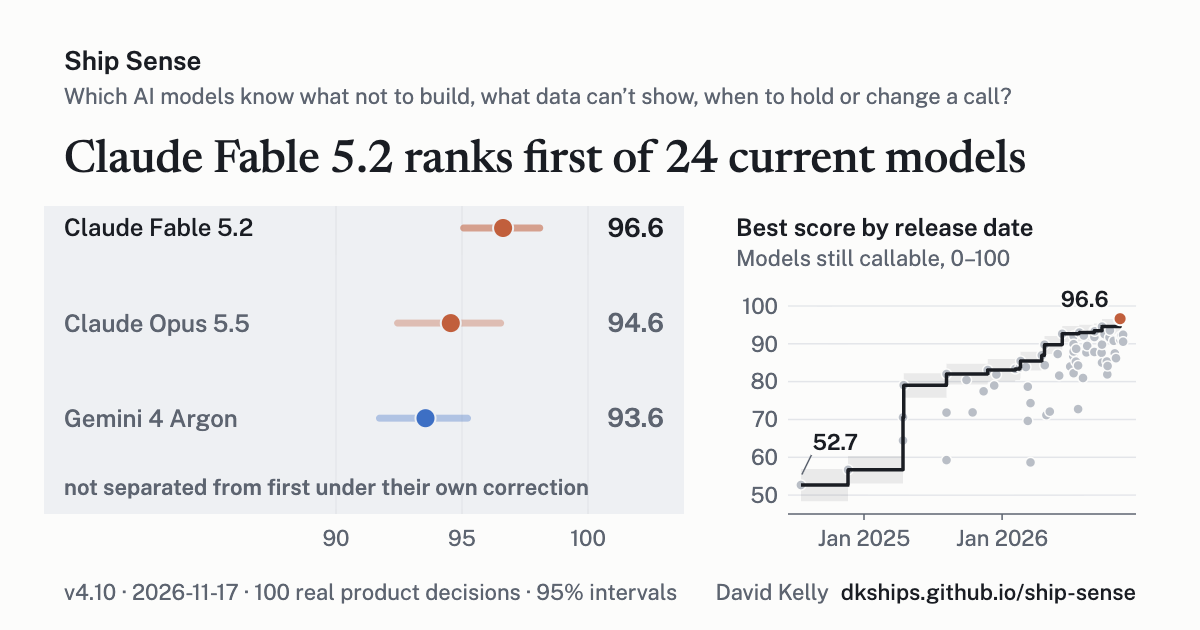
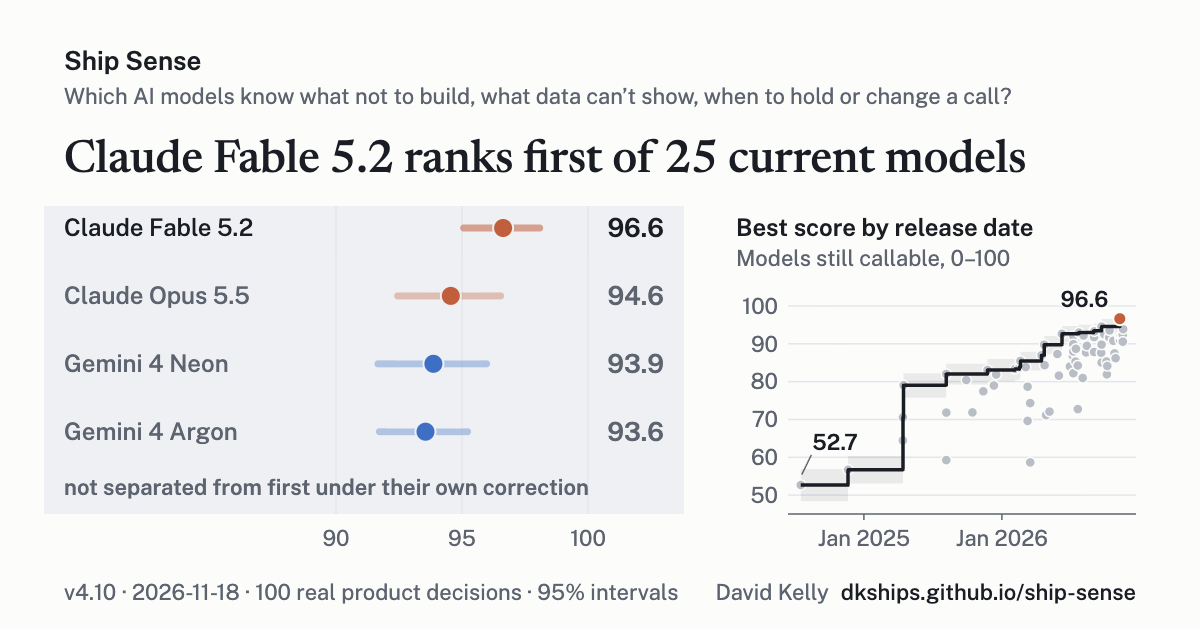
Sync the Ship Sense board: Gemini 4 Neon joins
Ship Sense added Gemini 4 Neon on 2026-11-18 as a 25th current model
(public commit 147f0e3). Snapshot, teaser and share image regenerated
by the sync script; the image is byte-identical to the board's card.

diff --git a/src/data/ship-sense-snapshot.ts b/src/data/ship-sense-snapshot.ts
@@ -12,7 +12,7 @@ export const SHIP_SENSE_RUN: ShipSenseRunMeta = {
   "runId": "2026-11-13-v4.10",
   "runDate": "2026-11-13",
   "bankItems": 100,
-  "modelCount": 71,
+  "modelCount": 72,
   "replacedCount": 1,
   "replacedBy": {
     "Mistral Medium 3.5": "Mistral Large 4"
@@ -36,8 +36,8 @@ export const SHIP_SENSE_RUN: ShipSenseRunMeta = {
     }
   ],
   "decisiveRule": "bh",
-  "decisivePairs": 1914,
-  "totalPairs": 2485,
+  "decisivePairs": 1969,
+  "totalPairs": 2556,
   "scoringDates": [
     {
       "date": "2026-11-13",
@@ -124,6 +124,12 @@ export const SHIP_SENSE_RUN: ShipSenseRunMeta = {
         "GPT-6.2 Astra",
         "GPT-6.2 Sol"
       ]
+    },
+    {
+      "date": "2026-11-18",
+      "labels": [
+        "Gemini 4 Neon"
+      ]
     }
   ]
 };
@@ -136,7 +142,7 @@ export const SHIP_SENSE_LINEUP: ShipSenseModelRow[] = [
     "pos": 1,
     "rankLo": 1,
     "rankHi": 1,
-    "pFirst": 0.9889,
+    "pFirst": 0.983,
     "testedOn": "v4.10",
     "score": 96.6,
     "lo": 95.1,
@@ -153,8 +159,8 @@ export const SHIP_SENSE_LINEUP: ShipSenseModelRow[] = [
     "provider": "anthropic",
     "pos": 2,
     "rankLo": 1,
-    "rankHi": 11,
-    "pFirst": 0.0101,
+    "rankHi": 12,
+    "pFirst": 0.0095,
     "testedOn": "v4.10",
     "score": 94.6,
     "lo": 92.4,
@@ -166,13 +172,31 @@ export const SHIP_SENSE_LINEUP: ShipSenseModelRow[] = [
     "priceOut": 20
   },
   {
-    "name": "gemini-4-argon",
-    "label": "Gemini 4 Argon",
+    "name": "gemini-4-neon",
+    "label": "Gemini 4 Neon",
     "provider": "google",
     "pos": 3,
     "rankLo": 1,
-    "rankHi": 14,
-    "pFirst": 0.0009,
+    "rankHi": 15,
+    "pFirst": 0.0066,
+    "testedOn": "v4.10",
+    "score": 93.9,
+    "lo": 91.7,
+    "hi": 96,
+    "restraint": 0.96,
+    "honesty": 0.92,
+    "conviction": 0.93,
+    "priceIn": 3,
+    "priceOut": 15
+  },
+  {
+    "name": "gemini-4-argon",
+    "label": "Gemini 4 Argon",
+    "provider": "google",
+    "pos": 4,
+    "rankLo": 1,
+    "rankHi": 15,
+    "pFirst": 0.0007,
     "testedOn": "v4.10",
     "score": 93.6,
     "lo": 91.7,
@@ -190,9 +214,9 @@ export const SHIP_SENSE_LINEUP: ShipSenseModelRow[] = [
     "name": "gpt-6.2-astra",
     "label": "GPT-6.2 Astra",
     "provider": "openai",
-    "pos": 4,
+    "pos": 5,
     "rankLo": 2,
-    "rankHi": 14,
+    "rankHi": 15,
     "pFirst": 0,
     "testedOn": "v4.10",
     "score": 92.4,
@@ -208,9 +232,9 @@ export const SHIP_SENSE_LINEUP: ShipSenseModelRow[] = [
     "name": "claude-sonnet-5-5",
     "label": "Claude Sonnet 5.5",
     "provider": "anthropic",
-    "pos": 5,
+    "pos": 6,
     "rankLo": 2,
-    "rankHi": 14,
+    "rankHi": 15,
     "pFirst": 0,
     "testedOn": "v4.10",
     "score": 92.4,
@@ -226,9 +250,9 @@ export const SHIP_SENSE_LINEUP: ShipSenseModelRow[] = [
     "name": "gemini-4-hydrogen",
     "label": "Gemini 4 Hydrogen",
     "provider": "google",
-    "pos": 6,
+    "pos": 7,
     "rankLo": 2,
-    "rankHi": 14,
+    "rankHi": 15,
     "pFirst": 0,
     "testedOn": "v4.10",
     "score": 92.1,
@@ -244,9 +268,9 @@ export const SHIP_SENSE_LINEUP: ShipSenseModelRow[] = [
     "name": "muse-ember-1.0",
     "label": "Muse Ember 1.0",
     "provider": "meta",
-    "pos": 7,
+    "pos": 8,
     "rankLo": 2,
-    "rankHi": 15,
+    "rankHi": 16,
     "pFirst": 0,
     "testedOn": "v4.10",
     "score": 91.8,
@@ -262,9 +286,9 @@ export const SHIP_SENSE_LINEUP: ShipSenseModelRow[] = [
     "name": "muse-spark-1.3",
     "label": "Muse Spark 1.3",
     "provider": "meta",
-    "pos": 8,
+    "pos": 9,
     "rankLo": 2,
-    "rankHi": 14,
+    "rankHi": 15,
     "pFirst": 0,
     "testedOn": "v4.10",
     "score": 91.8,
@@ -280,9 +304,9 @@ export const SHIP_SENSE_LINEUP: ShipSenseModelRow[] = [
     "name": "muse-wonder-1.0",
     "label": "Muse Wonder 1.0",
     "provider": "meta",
-    "pos": 9,
+    "pos": 10,
     "rankLo": 2,
-    "rankHi": 16,
+    "rankHi": 17,
     "pFirst": 0.0001,
     "testedOn": "v4.10",
     "score": 91.7,
@@ -298,9 +322,9 @@ export const SHIP_SENSE_LINEUP: ShipSenseModelRow[] = [
     "name": "qwen4-max",
     "label": "Qwen 4 Max",
     "provider": "qwen",
-    "pos": 10,
+    "pos": 11,
     "rankLo": 2,
-    "rankHi": 15,
+    "rankHi": 16,
     "pFirst": 0,
     "testedOn": "v4.10",
     "score": 91.5,
@@ -316,9 +340,9 @@ export const SHIP_SENSE_LINEUP: ShipSenseModelRow[] = [
     "name": "gemini-4-carbon",
     "label": "Gemini 4 Carbon",
     "provider": "google",
-    "pos": 11,
+    "pos": 12,
     "rankLo": 2,
-    "rankHi": 17,
+    "rankHi": 18,
     "pFirst": 0,
     "testedOn": "v4.10",
     "score": 91,
@@ -337,9 +361,9 @@ export const SHIP_SENSE_LINEUP: ShipSenseModelRow[] = [
     "name": "kimi-k3.1-pro",
     "label": "Kimi K3.1 Pro",
     "provider": "moonshot",
-    "pos": 12,
+    "pos": 13,
     "rankLo": 3,
-    "rankHi": 15,
+    "rankHi": 16,
     "pFirst": 0,
     "testedOn": "v4.10",
     "score": 90.8,
@@ -355,9 +379,9 @@ export const SHIP_SENSE_LINEUP: ShipSenseModelRow[] = [
     "name": "gpt-6.2-sol",
     "label": "GPT-6.2 Sol",
     "provider": "openai",
-    "pos": 13,
+    "pos": 14,
     "rankLo": 3,
-    "rankHi": 17,
+    "rankHi": 18,
     "pFirst": 0,
     "testedOn": "v4.10",
     "score": 90.6,
@@ -373,9 +397,9 @@ export const SHIP_SENSE_LINEUP: ShipSenseModelRow[] = [
     "name": "glm-5.3",
     "label": "GLM-5.3",
     "provider": "zai",
-    "pos": 14,
+    "pos": 15,
     "rankLo": 3,
-    "rankHi": 20,
+    "rankHi": 21,
     "pFirst": 0,
     "testedOn": "v4.10",
     "score": 89.5,
@@ -391,9 +415,9 @@ export const SHIP_SENSE_LINEUP: ShipSenseModelRow[] = [
     "name": "grok-4.7",
     "label": "Grok 4.7",
     "provider": "xai",
-    "pos": 15,
-    "rankLo": 9,
-    "rankHi": 22,
+    "pos": 16,
+    "rankLo": 10,
+    "rankHi": 23,
     "pFirst": 0,
     "testedOn": "v4.10",
     "score": 87.6,
@@ -409,9 +433,9 @@ export const SHIP_SENSE_LINEUP: ShipSenseModelRow[] = [
     "name": "gpt-6.1-terra",
     "label": "GPT-6.1 Terra",
     "provider": "openai",
-    "pos": 16,
-    "rankLo": 10,
-    "rankHi": 22,
+    "pos": 17,
+    "rankLo": 11,
+    "rankHi": 23,
     "pFirst": 0,
     "testedOn": "v4.10",
     "score": 87.5,
@@ -427,9 +451,9 @@ export const SHIP_SENSE_LINEUP: ShipSenseModelRow[] = [
     "name": "mistral-large-4-1029",
     "label": "Mistral Large 4 (Oct 29)",
     "provider": "mistral",
-    "pos": 17,
-    "rankLo": 12,
-    "rankHi": 22,
+    "pos": 18,
+    "rankLo": 13,
+    "rankHi": 23,
     "pFirst": 0,
     "testedOn": "v4.10",
     "score": 86.2,
@@ -445,9 +469,9 @@ export const SHIP_SENSE_LINEUP: ShipSenseModelRow[] = [
     "name": "beam-501b-a23b",
     "label": "Beam 1.0",
     "provider": "reflection",
-    "pos": 18,
-    "rankLo": 15,
-    "rankHi": 23,
+    "pos": 19,
+    "rankLo": 16,
+    "rankHi": 24,
     "pFirst": 0,
     "testedOn": "v4.10",
     "score": 85.3,
@@ -463,9 +487,9 @@ export const SHIP_SENSE_LINEUP: ShipSenseModelRow[] = [
     "name": "inkling",
     "label": "Inkling",
     "provider": "thinkingmachines",
-    "pos": 19,
-    "rankLo": 14,
-    "rankHi": 23,
+    "pos": 20,
+    "rankLo": 15,
+    "rankHi": 24,
     "pFirst": 0,
     "testedOn": "v4.10",
     "score": 85.3,
@@ -481,9 +505,9 @@ export const SHIP_SENSE_LINEUP: ShipSenseModelRow[] = [
     "name": "gpt-6-luna",
     "label": "GPT-6 Luna",
     "provider": "openai",
-    "pos": 20,
-    "rankLo": 14,
-    "rankHi": 23,
+    "pos": 21,
+    "rankLo": 15,
+    "rankHi": 24,
     "pFirst": 0,
     "testedOn": "v4.10",
     "score": 85,
@@ -499,9 +523,9 @@ export const SHIP_SENSE_LINEUP: ShipSenseModelRow[] = [
     "name": "deepseek-v4-pro",
     "label": "DeepSeek V4 Pro",
     "provider": "deepseek",
-    "pos": 21,
-    "rankLo": 15,
-    "rankHi": 23,
+    "pos": 22,
+    "rankLo": 16,
+    "rankHi": 24,
     "pFirst": 0,
     "testedOn": "v4.10",
     "score": 84.3,
@@ -517,9 +541,9 @@ export const SHIP_SENSE_LINEUP: ShipSenseModelRow[] = [
     "name": "claude-haiku-5-5",
     "label": "Claude Haiku 5.5",
     "provider": "anthropic",
-    "pos": 22,
-    "rankLo": 15,
-    "rankHi": 23,
+    "pos": 23,
+    "rankLo": 16,
+    "rankHi": 24,
     "pFirst": 0,
     "testedOn": "v4.10",
     "score": 84.1,
@@ -535,9 +559,9 @@ export const SHIP_SENSE_LINEUP: ShipSenseModelRow[] = [
     "name": "minimax-m3",
     "label": "MiniMax M3",
     "provider": "minimax",
-    "pos": 23,
-    "rankLo": 18,
-    "rankHi": 23,
+    "pos": 24,
+    "rankLo": 19,
+    "rankHi": 24,
     "pFirst": 0,
     "testedOn": "v4.10",
     "score": 81.6,
@@ -553,9 +577,9 @@ export const SHIP_SENSE_LINEUP: ShipSenseModelRow[] = [
     "name": "gemini-3.5-flash-lite",
     "label": "Gemini 3.5 Flash-Lite",
     "provider": "google",
-    "pos": 24,
-    "rankLo": 24,
-    "rankHi": 24,
+    "pos": 25,
+    "rankLo": 25,
+    "rankHi": 25,
     "pFirst": 0,
     "testedOn": "v4.10",
     "score": 72.7,

diff --git a/src/data/ship-sense-teaser.ts b/src/data/ship-sense-teaser.ts
@@ -13,14 +13,14 @@ export const SHIP_SENSE_TEASER: ShipSenseTeaserRow[] = [
     "score": 94.6
   },
   {
-    "label": "Gemini 4 Argon",
-    "score": 93.6
+    "label": "Gemini 4 Neon",
+    "score": 93.9
   }
 ];
 
 export const SHIP_SENSE_TEASER_RUN = {
   "version": "v4.10",
   "bankItems": 100,
-  "modelCount": 71,
-  "currentCount": 24
+  "modelCount": 72,
+  "currentCount": 25
 };
